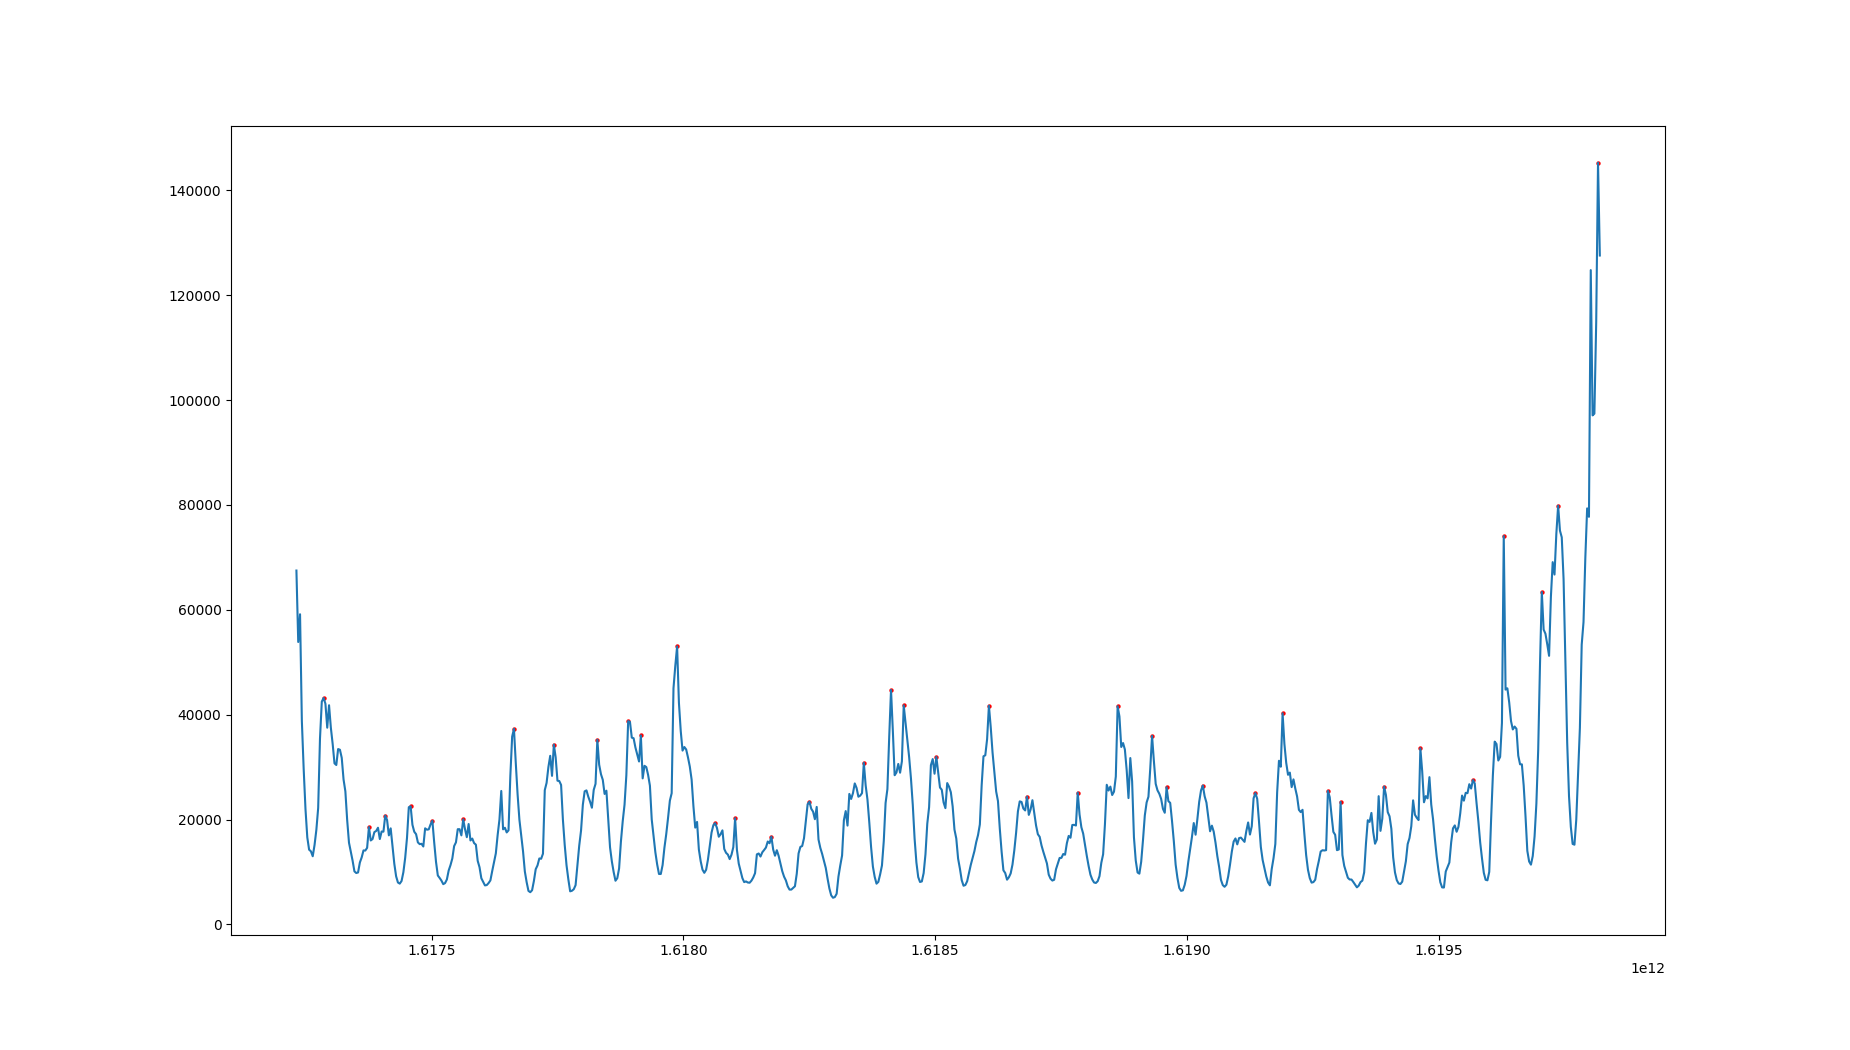
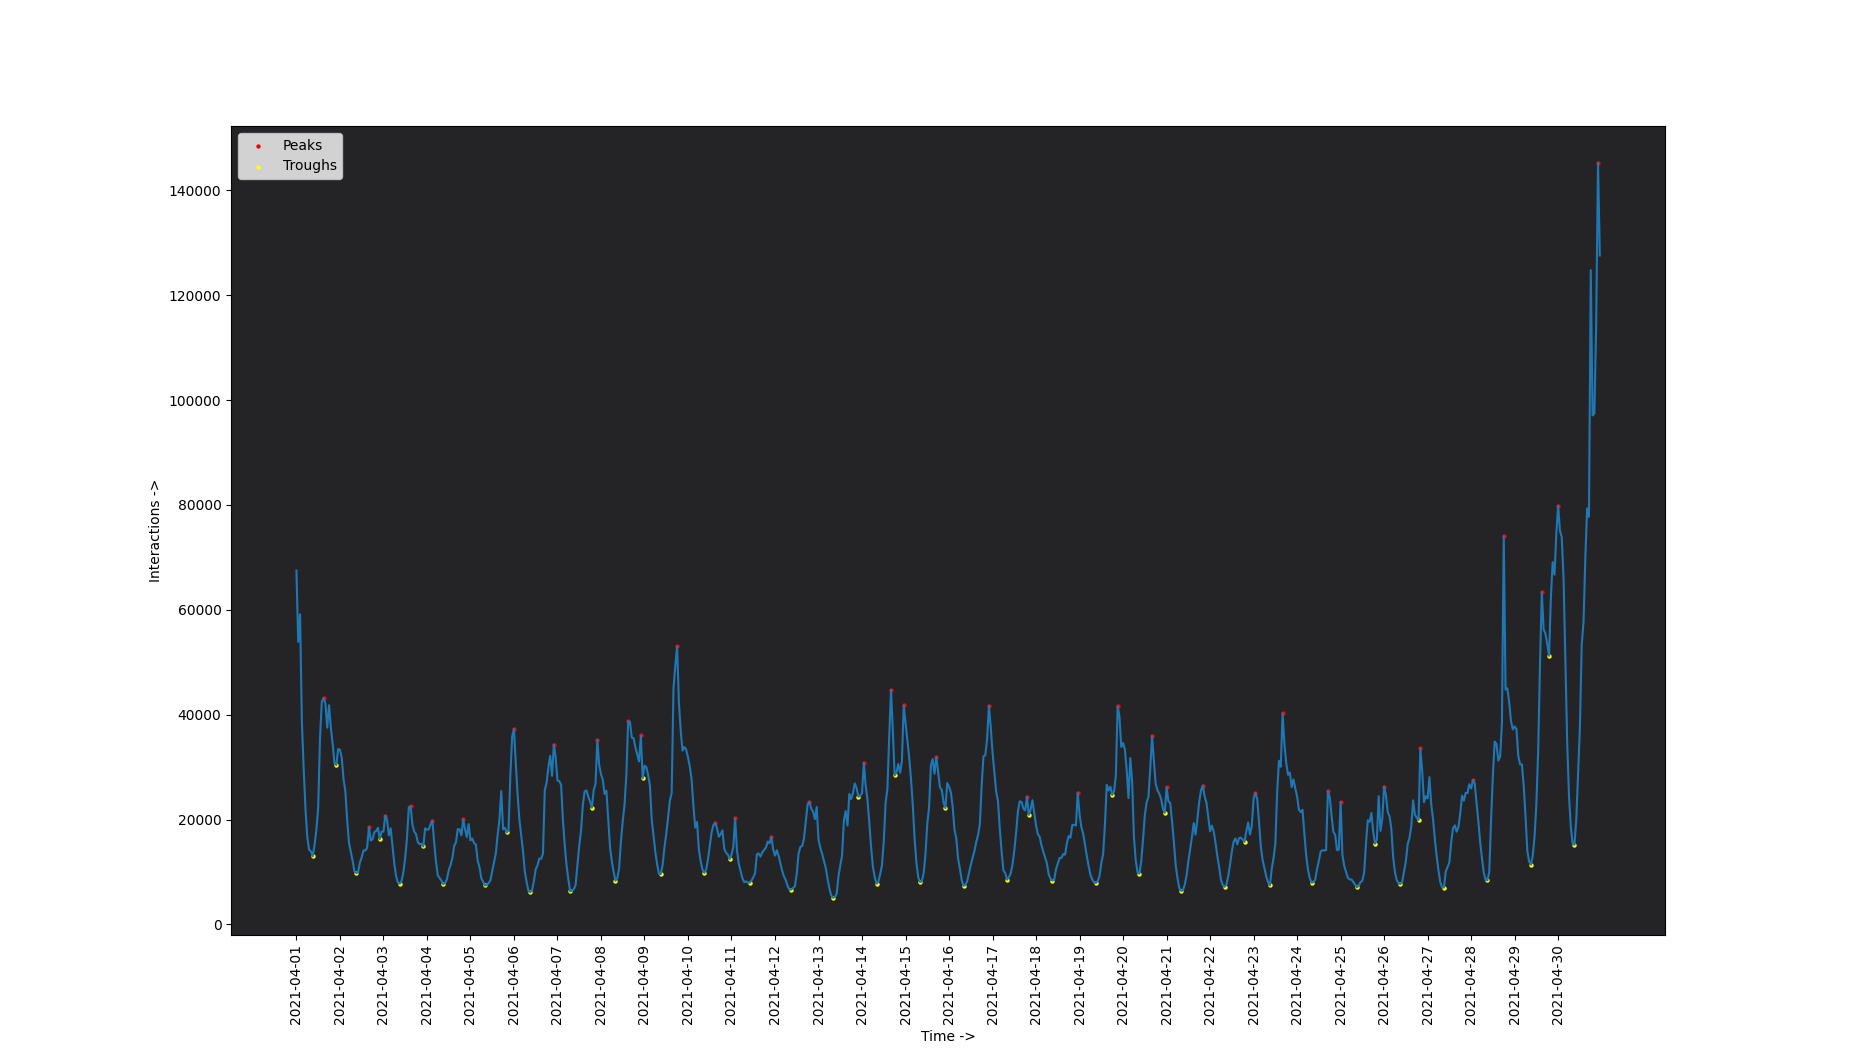
Beautify graph

diff --git a/app/src/main.py b/app/src/main.py
@@ -3,26 +3,55 @@ import numpy as np
 import scipy.signal as sig
 import matplotlib.pyplot as plt
 from numpy import ndarray
+from datetime import datetime
 
 
-def plot_timeline(time: ndarray, interactions: ndarray, peaks):
-    plt.plot(time, interactions)
-    plt.scatter(time[peaks], interactions[peaks], c='red', s=10, linewidth=0)
+def plot_timeline(times: ndarray, interactions: ndarray, peaks: ndarray, spans: ndarray):
     fig = plt.gcf()
+    plt.gca().set_facecolor((0.14, 0.14, 0.15))
     fig.set_size_inches(18.5, 10.5)
+    plt.plot(times, interactions)
+    plt.xticks(rotation=90)
+    dates_to_display = list()
+    for time in times:
+        dates_to_display.append(datetime.fromtimestamp(time).strftime("%Y-%m-%d"))
+    x_axis_tick_freq = 24
+    ticks_to_mark = times[np.arange(0, len(times), x_axis_tick_freq)]
+    tick_labels_to_display = dates_to_display[1::x_axis_tick_freq]
+    plt.xticks(ticks=ticks_to_mark, labels=tick_labels_to_display)
+    plot_peaks(times, interactions, peaks)
+    plot_spans(times, interactions, spans)
+    plt.legend()
+    plt.xlabel("Time ->")
+    plt.ylabel("Interactions ->")
+    plt.title("Peak and trough detection using argrelextrema algorithm")
     plt.savefig('../resources/output/public_1.png', dpi=100)
+
+
+def plot_peaks(time: ndarray, interactions: ndarray, peaks: ndarray):
+    plt.scatter(time[peaks], interactions[peaks], c='red', s=10, linewidth=0, label="Peaks")
+
+
+def plot_spans(time: ndarray, interactions: ndarray, spans: ndarray):
+    plt.scatter(time[spans], interactions[spans], c='yellow', s=10, linewidth=0, label="Troughs")
 
 
 def initialize():
     ts = json.load(open('../resources/timeSeries/1/public/sample.json'))
     interactions: ndarray = np.array(list(map(lambda entry: entry['total'], ts)))
-    timestamp: ndarray = np.array(list(map(lambda entry: entry['time'], ts)))
+    inverted_interactions: ndarray = np.array(list(map(lambda entry: entry['total'] * -1, ts)))
+    timestamp: ndarray = np.array(list(map(lambda entry: entry['time'] / 1000, ts)))
     peaks: ndarray = sig.argrelextrema(
         interactions,
         comparator=np.greater,
         order=5
     )[0]
-    plot_timeline(timestamp, interactions, peaks)
+    spans: ndarray = sig.argrelextrema(
+        inverted_interactions,
+        comparator=np.greater,
+        order=3
+    )[0]
+    plot_timeline(timestamp, interactions, peaks, spans)
 
 
 if __name__ == '__main__':
